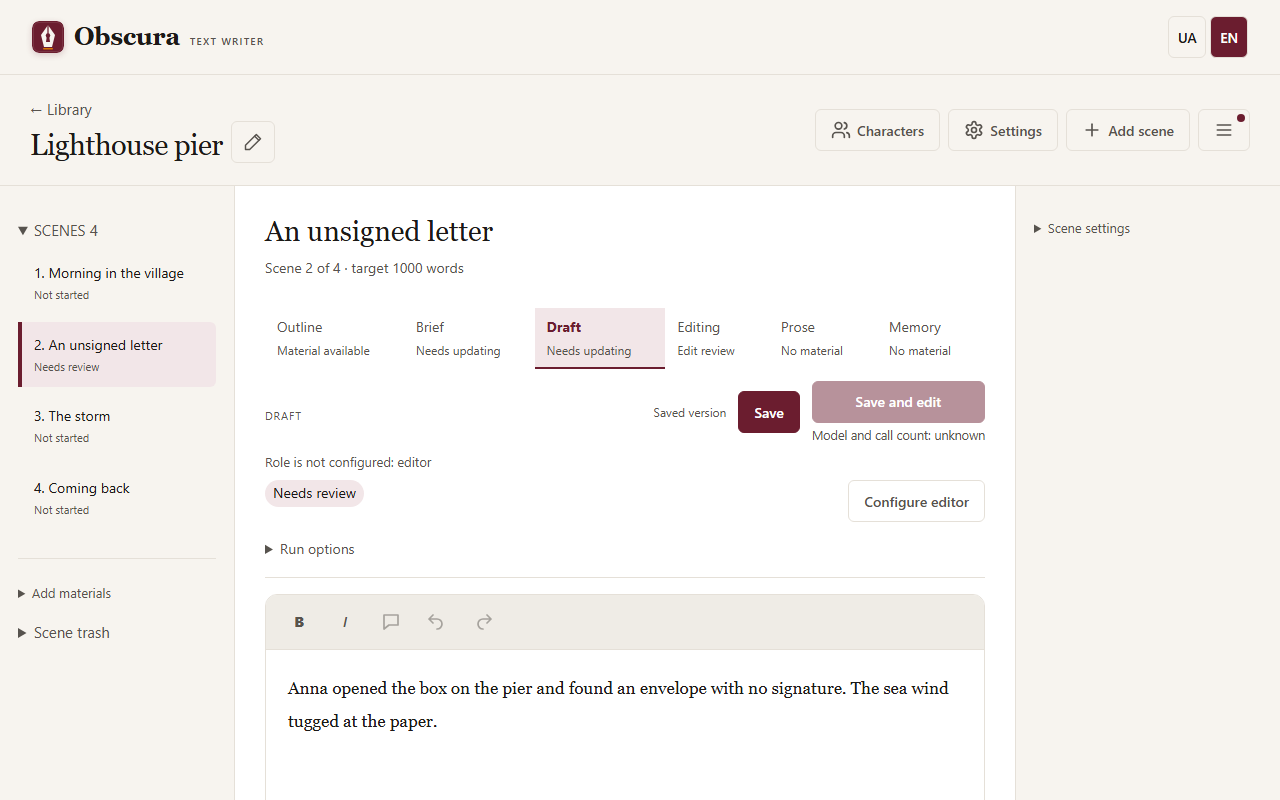
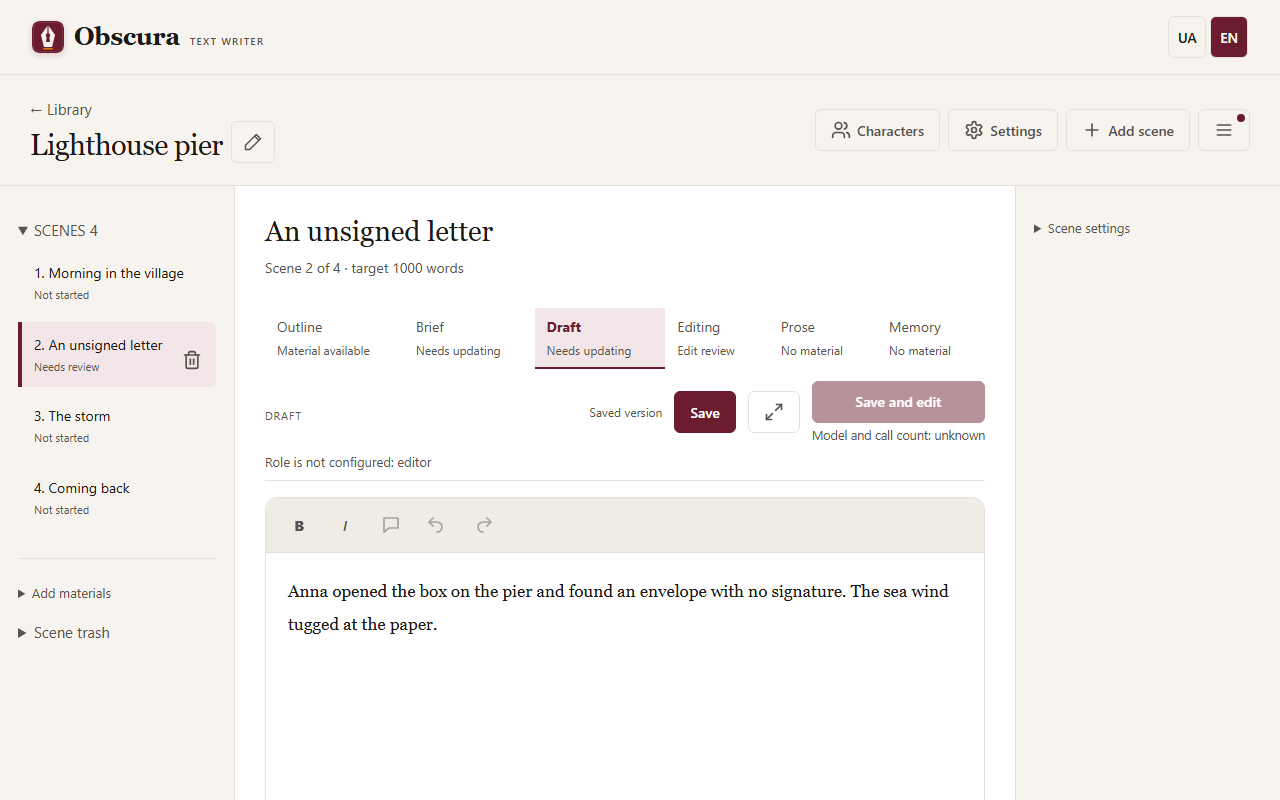
feat: compact pinned workspace area and full screen editor (R20-WORKSPACE-S03/S05)
Run status, run controls, run options and the waiting review card move under
the material; the pinned area keeps the tabs, the Save/primary row, the
blocked-action reason, the origin mark and the external change warning.
A 'Decision needed' link jumps to waiting runs. A full screen mode spreads the
editor over the app window and exits on Escape.

diff --git a/src/storygen/web/templates/story.html b/src/storygen/web/templates/story.html
@@ -3,8 +3,8 @@
 <div class="workbench"><aside class="scene-panel"><details id="scene-list-section" open><summary><span data-i18n="m_6a99495702ec">{{ t('m_6a99495702ec') }}</span> <span id="scene-count"></span></summary><select id="scene-select-mobile" aria-label="{{ t('m_f0f1417db6de') }}" data-i18n-attrs='{"aria-label": "m_f0f1417db6de"}'></select><nav id="scene-list"></nav></details><details class="importer" open><summary><span data-i18n="m_4aa3221c15d4">{{ t('m_4aa3221c15d4') }}</span></summary><div class="import-template-links"><span class="muted"><span data-i18n="m_85029e1c12d1">{{ t('m_85029e1c12d1') }}</span></span><a href="/static/templates/{{ 'story-plan-en.md' if story.language=='en' else 'story-plan.md' }}" download="obscura-plan.md"><span data-i18n="m_23766d24efd9">{{ t('m_23766d24efd9') }}</span></a><a href="/static/templates/{{ 'characters-en.md' if story.language=='en' else 'characters.md' }}" download="obscura-characters.md"><span data-i18n="m_a0828dcd0440">{{ t('m_a0828dcd0440') }}</span></a></div><form id="import-sources"><label><span data-i18n="m_3146141c9367">{{ t('m_3146141c9367') }}</span><input type="file" name="plan" accept=".md,.txt"></label><label><span data-i18n="m_fda6febf7bc7">{{ t('m_fda6febf7bc7') }}</span><input type="file" name="characters" accept=".md,.txt"></label><button><span data-i18n="m_68f804fb7941">{{ t('m_68f804fb7941') }}</span></button></form><p class="muted" data-i18n="imports.unnumbered">{{ t('imports.unnumbered') }}</p><section id="import-results" class="import-results" role="status" aria-live="polite" hidden></section><div id="import-journal" class="import-journal-host"></div></details></aside>
 <main class="editor-panel"><header class="scene-heading"><h2 id="scene-title"><span data-i18n="m_e9afe8d51b91">{{ t('m_e9afe8d51b91') }}</span></h2><p id="workspace-scene-meta"><span data-i18n="m_6be5cd9f46ec">{{ t('m_6be5cd9f46ec') }}</span></p></header>
 <div class="workspace-sticky"><div id="mode-tabs" class="tabs" role="tablist" aria-label="{{ t('m_566dc8de3f68') }}" data-i18n-attrs='{"aria-label": "m_566dc8de3f68"}'></div>
-<div class="editor-toolbar"><span class="material-label" id="current-kind"><span data-i18n="m_9ecb77f7d846">{{ t('m_9ecb77f7d846') }}</span></span><span id="save-state" class="muted" role="status"></span><button id="save-text" disabled><span data-i18n="m_bf610d493cb4">{{ t('m_bf610d493cb4') }}</span></button><button id="workspace-primary" disabled aria-describedby="workspace-hint"><span data-i18n="m_f0f1417db6de">{{ t('m_f0f1417db6de') }}</span></button></div><p id="workspace-hint" role="status"></p><p id="workspace-compact-status" class="workspace-compact-status" role="status"></p><section id="workspace-status-row" class="workspace-status-row" aria-label="{{ t('m_f9396174436c') }}" data-i18n-attrs='{"aria-label": "m_f9396174436c"}'><p id="workspace-scene-status" class="scene-status-badge"></p><p id="workspace-origin" class="muted workspace-origin" hidden></p><p id="external-change" class="external-change" role="status" hidden><span></span> <button type="button" class="secondary" hidden></button></p><div id="run-status"></div><div id="run-actions"></div><a id="workspace-error-settings" class="button secondary" hidden><span data-i18n="m_d8f26ba2b72c">{{ t('m_d8f26ba2b72c') }}</span></a><details id="run-options" class="run-options"><summary><span data-i18n="workspace.run_options">{{ t('workspace.run_options') }}</span></summary></details></section></div>
-<div id="review-attention" class="review-attention" hidden><p><a href="/stories/{{story.id}}/revision" data-i18n="workspace.review_attention">{{ t('workspace.review_attention') }}</a></p><section id="review-session" data-scope="attention" aria-live="polite" hidden></section></div><section id="workspace-material" role="tabpanel" aria-labelledby="current-kind"><section id="memory-view" aria-label="{{ t('m_e8666e7283dd') }}" data-i18n-attrs='{"aria-label": "m_e8666e7283dd"}' hidden></section><section id="brief-proposal" hidden></section><textarea id="editor" aria-labelledby="scene-title current-kind" spellcheck="true" placeholder="{{ t('m_af47cedafa12') }}" data-i18n-attrs='{"placeholder": "m_af47cedafa12"}'></textarea><section id="brief-link" hidden></section><section id="author-comments" hidden></section><section id="ghost-entry" hidden></section><section id="ghost-mode" hidden></section><section id="assisted-writing" hidden></section><section id="assisted-review" hidden></section><section id="scene-statistics" class="scene-statistics" aria-label="{{ t('m_f6dc49558ea8') }}" data-i18n-attrs='{"aria-label": "m_f6dc49558ea8"}'></section><details class="workspace-output"><summary><span data-i18n="m_b0c41900f0c9">{{ t('m_b0c41900f0c9') }}</span></summary><pre id="live-text" hidden></pre></details><div id="copyedit-panel" hidden></div></section>
+<div class="editor-toolbar"><span class="material-label" id="current-kind"><span data-i18n="m_9ecb77f7d846">{{ t('m_9ecb77f7d846') }}</span></span><span id="save-state" class="muted" role="status"></span><button id="save-text" disabled><span data-i18n="m_bf610d493cb4">{{ t('m_bf610d493cb4') }}</span></button><button id="workspace-focus" type="button" class="secondary icon-button" aria-pressed="false" aria-label="{{ t('workspace.focus_enter') }}" title="{{ t('workspace.focus_enter') }}"><span class="icon icon-maximize" aria-hidden="true"></span></button><button id="workspace-primary" disabled aria-describedby="workspace-hint"><span data-i18n="m_f0f1417db6de">{{ t('m_f0f1417db6de') }}</span></button><a id="run-jump" class="run-jump" href="#workspace-status-row" hidden><span data-i18n="workspace.decision_needed">{{ t('workspace.decision_needed') }}</span></a></div><div class="workspace-pinned-notes"><p id="workspace-hint" role="status" hidden></p><p id="workspace-origin" class="muted workspace-origin" hidden></p><p id="external-change" class="external-change" role="status" hidden><span></span> <button type="button" class="secondary" hidden></button></p></div><p id="workspace-compact-status" class="workspace-compact-status" role="status"></p></div>
+<section id="workspace-material" role="tabpanel" tabindex="-1" aria-labelledby="current-kind"><section id="memory-view" aria-label="{{ t('m_e8666e7283dd') }}" data-i18n-attrs='{"aria-label": "m_e8666e7283dd"}' hidden></section><section id="brief-proposal" hidden></section><textarea id="editor" aria-labelledby="scene-title current-kind" spellcheck="true" placeholder="{{ t('m_af47cedafa12') }}" data-i18n-attrs='{"placeholder": "m_af47cedafa12"}'></textarea><section id="brief-link" hidden></section><section id="author-comments" hidden></section><section id="ghost-entry" hidden></section><section id="ghost-mode" hidden></section><section id="assisted-writing" hidden></section><section id="assisted-review" hidden></section><section id="scene-statistics" class="scene-statistics" aria-label="{{ t('m_f6dc49558ea8') }}" data-i18n-attrs='{"aria-label": "m_f6dc49558ea8"}'></section><details class="workspace-output"><summary><span data-i18n="m_b0c41900f0c9">{{ t('m_b0c41900f0c9') }}</span></summary><pre id="live-text" hidden></pre></details><div id="copyedit-panel" hidden></div></section><p id="workspace-hint-info" class="workspace-hint-info" role="status"></p><section id="workspace-status-row" class="workspace-status-row" aria-label="{{ t('m_f9396174436c') }}" data-i18n-attrs='{"aria-label": "m_f9396174436c"}'><p id="workspace-scene-status" class="scene-status-badge"></p><div id="run-status"></div><div id="run-actions"></div><a id="workspace-error-settings" class="button secondary" hidden><span data-i18n="m_d8f26ba2b72c">{{ t('m_d8f26ba2b72c') }}</span></a><details id="run-options" class="run-options"><summary><span data-i18n="workspace.run_options">{{ t('workspace.run_options') }}</span></summary></details></section><div id="review-attention" class="review-attention" tabindex="-1" hidden><p><a href="/stories/{{story.id}}/revision" data-i18n="workspace.review_attention">{{ t('workspace.review_attention') }}</a></p><section id="review-session" data-scope="attention" aria-live="polite" hidden></section></div>
 <details id="workspace-history"><summary><span data-i18n="m_1653560c8db6">{{ t('m_1653560c8db6') }}</span></summary><div id="version-panel"></div></details>
 <details class="workspace-extra"><summary><span data-i18n="m_788d4b38107e">{{ t('m_788d4b38107e') }}</span></summary><button id="workspace-edit-prose" class="secondary" hidden><span data-i18n="m_9c2211f84d1e">{{ t('m_9c2211f84d1e') }}</span></button><button id="workspace-use-draft" class="secondary"><span data-i18n="m_bcc45ed5922a">{{ t('m_bcc45ed5922a') }}</span></button><div id="workspace-scene-actions"></div><div id="generation-controls" hidden></div></details></main>
 <aside class="context-panel"><details class="tool-section" data-section="scene"><summary><span data-i18n="workspace.scene_section">{{ t('workspace.scene_section') }}</span></summary><div id="context-content"><p class="muted"><span data-i18n="m_8fe8cb15943c">{{ t('m_8fe8cb15943c') }}</span></p></div></details><details class="tool-section" data-section="evaluation" id="evaluation-section" hidden><summary><span data-i18n="workspace.evaluation_section">{{ t('workspace.evaluation_section') }}</span></summary><div id="evaluation-panel"></div></details></aside></div></div>

diff --git a/src/storygen/web/static/workspace-route.js b/src/storygen/web/static/workspace-route.js
@@ -7,17 +7,21 @@ import {invokeWorkspaceCommand} from './workspace-commands.js';
 import {performPrimary,primaryAction} from './workspace-state.js';
 import {compactBudgetText} from './workspace-links.js';
 import {editorLoopOperation} from './run-readiness.js';
+import {installRunJump} from './run-jump.js';
+import {installWorkspaceFocus} from './workspace-focus.js';
 
-const primary=document.querySelector('#workspace-primary'),hint=document.querySelector('#workspace-hint');
+const primary=document.querySelector('#workspace-primary'),hint=document.querySelector('#workspace-hint'),hintInfo=document.querySelector('#workspace-hint-info');
 const primaryWrap=document.createElement('span');primaryWrap.className='workspace-primary-wrap';
 primary.before(primaryWrap);primaryWrap.append(primary);
 const telemetry=document.createElement('small');telemetry.id='workspace-telemetry';
 telemetry.tabIndex=0;
 const detailsCard=document.createElement('div');detailsCard.id='workspace-telemetry-details';detailsCard.className='workspace-telemetry-details';detailsCard.setAttribute('role','tooltip');
-primaryWrap.append(telemetry,detailsCard);primary.setAttribute('aria-describedby','workspace-hint workspace-telemetry workspace-telemetry-details');
+primaryWrap.append(telemetry,detailsCard);primary.setAttribute('aria-describedby','workspace-hint workspace-hint-info workspace-telemetry workspace-telemetry-details');
 const activeKey=()=>`storygen.primary.active.${state.storyId}`;
 function activeId(){try{return sessionStorage.getItem(activeKey())}catch{return null}}
 function setActiveId(id){try{if(id)sessionStorage.setItem(activeKey(),id);else sessionStorage.removeItem(activeKey())}catch{}}
+const updateRunJump=installRunJump(document,()=>state.workspaceRun?.state);
+installWorkspaceFocus(document,textEditor);
 let busy=false,pending=null,primaryRun=activeId(),primaryController=null,cancelRequested=false;
 const activeStates=new Set(['queued','running','pause_requested','cancellation_requested']);
 const isActive=()=>activeStates.has(state.workspaceRun?.state)||(state.workspaceRuns||[]).some(run=>activeStates.has(run.state));
@@ -52,7 +56,9 @@ function render(){
   uiText(primary,"textContent",()=>(canStop?t('workspace.stop'):(primaryAction(state).label||t("m_b31265827ca7"))));primary.disabled=canStop?cancelRequested:!!reason;
   const scenes=state.view?.scenes||[],last=scenes.at(-1)?.id===state.scene?.id;
   if(state.mode==='memory'&&!canStop)uiText(primary,"textContent",()=>(last?t("m_0471f5c4220f"):t("m_58a98c56a879")));
-  uiText(hint,"textContent",()=>(diagnostic(reason)||(action.target&&state.scene?.heads[action.target]?t("m_44df09bb6ff6"):state.mode==='review'?t("m_34c3cc998162"):state.mode==='memory'?t("m_e310e34e8865"):t("m_93abd76dba4c"))));
+  // The blocked-action reason stays pinned above the editor; the general consequence note scrolls under the material.
+  hint.hidden=!diagnostic(reason);uiText(hint,"textContent",()=>(diagnostic(reason)));
+  uiText(hintInfo,"textContent",()=>(action.target&&state.scene?.heads[action.target]?t("m_44df09bb6ff6"):state.mode==='review'?t("m_34c3cc998162"):state.mode==='memory'?t("m_e310e34e8865"):t("m_93abd76dba4c")));
   uiText(primary,"title",()=>(diagnostic(reason)));
   const repeat=document.querySelector('#workspace-edit-prose');repeat.hidden=state.mode!=='prose';repeat.disabled=busy||isActive()||state.saving;
   // #105: tab statuses follow the refreshed view even while the buffer keeps the author's text and revision.
@@ -66,6 +72,7 @@ function render(){
     uiAttr(b,'aria-label',()=>(`${({plan:t('m_3146141c9367'),brief:t('m_5a2ec5eaf0a1'),draft:t('m_e9d875d4120b'),review:t('m_c2320838b6df'),prose:t('m_9c685577453c'),memory:t('m_aa1cfb48cc30')})[mode]||b.dataset.label}: ${diagnostic(status)}`));
     let small=b.querySelector('small');if(!small){small=document.createElement('small');b.append(small)}uiText(small,"textContent",()=>(diagnostic(status)));
   }
+  updateRunJump();
 }
 async function nextScene(){
   const scenes=state.view.scenes,index=scenes.findIndex(s=>s.id===state.scene.id);

diff --git a/src/storygen/web/static/app.css b/src/storygen/web/static/app.css
@@ -400,6 +400,31 @@ pre { white-space: pre-wrap; overflow-wrap: anywhere; font: 14px/1.7 var(--font-
 .scene-status-badge { padding: 0.125rem 0.5rem; border-radius: 999px; background: var(--accent-soft); color: var(--text-primary); }
 .external-change { margin: 0; display: flex; flex-wrap: wrap; align-items: center; gap: 0.5rem; color: var(--warning); font-weight: 600; }
 .run-options { flex-basis: 100%; }
+/* R20-WORKSPACE-S03: the status row, the consequence note and a waiting review card scroll under the material. */
+.workspace-hint-info { margin: 0.75rem 0 0; color: var(--text-secondary); font-size: 0.8125rem; }
+#workspace-material ~ .workspace-status-row { margin-top: 0.75rem; padding-top: 0.75rem; border-top: 1px solid var(--border-color); }
+#workspace-material ~ .review-attention { margin-top: 0.75rem; }
+.workspace-pinned-notes { display: flex; flex-wrap: wrap; align-items: center; gap: 0.25rem 0.75rem; }
+.workspace-pinned-notes:not(:has(> :not([hidden]))) { display: none; }
+.workspace-pinned-notes > p { margin: 0.5rem 0 0; }
+.run-jump { color: var(--warning); font-weight: 600; font-size: 0.875rem; white-space: nowrap; }
+.run-jump[hidden] { display: none; }
+.icon-maximize { --icon: url(/static/icons/maximize.svg); }
+.icon-minimize { --icon: url(/static/icons/minimize.svg); }
+/* R20-WORKSPACE-S05: full screen inside the app window; only the editor and a thin save row remain. */
+body:has(#workspace.focus-mode) .topbar, #workspace.focus-mode .storybar, #workspace.focus-mode .scene-panel, #workspace.focus-mode .context-panel,
+#workspace.focus-mode .scene-heading, #workspace.focus-mode #mode-tabs, #workspace.focus-mode .workspace-primary-wrap, #workspace.focus-mode #run-jump,
+#workspace.focus-mode .workspace-hint-info, #workspace.focus-mode .workspace-status-row, #workspace.focus-mode .review-attention,
+#workspace.focus-mode #workspace-history, #workspace.focus-mode .workspace-extra, #workspace.focus-mode #scene-statistics, #workspace.focus-mode .workspace-output,
+#workspace.focus-mode .workspace-compact-status { display: none !important; }
+#workspace.focus-mode .editor-panel { position: fixed; inset: 0; z-index: 20; display: flex; flex-direction: column; padding: 0.5rem 1rem 1rem; background: var(--bg-surface); }
+#workspace.focus-mode .workspace-sticky { position: static; margin-bottom: 0.5rem; }
+#workspace.focus-mode #workspace-material { flex: 1; min-height: 0; display: flex; flex-direction: column; overflow-y: auto; }
+/* The editor fills the window; panels that follow it inside the material (comments, assisted writing) scroll below. */
+#workspace.focus-mode #workspace-material > textarea#editor:not([hidden]), #workspace.focus-mode #workspace-material > .rich-text-surface:not([hidden]) { flex: none; height: 100%; min-height: 0; display: flex; flex-direction: column; }
+#workspace.focus-mode #workspace-material > textarea#editor { resize: none; }
+#workspace.focus-mode .rich-text-host { flex: 1; min-height: 0; display: flex; flex-direction: column; }
+#workspace.focus-mode .rich-text-host .ProseMirror { flex: 1; min-height: 0; height: auto; }
 .run-options label { max-width: 22rem; }
 #run-actions { display: flex; flex-wrap: wrap; gap: 0.5rem; margin-block: 0.75rem; }
 #run-actions .run-action { flex: 1 1 8rem; }

diff --git a/src/storygen/web/static/workspace-focus.js b/src/storygen/web/static/workspace-focus.js
@@ -1,0 +1,34 @@
+/** R20-WORKSPACE-S05: spread the editor over the app window (not the browser Fullscreen API). */
+import {t,uiAttr} from './i18n.js';
+
+function openPopover(doc){try{return !!doc.querySelector(':popover-open')}catch{return false}}
+const shown=node=>!!node&&!node.hidden&&node.getClientRects?.().length>0;
+
+export function installWorkspaceFocus(doc,textEditor){
+  const root=doc.querySelector('#workspace'),button=doc.querySelector('#workspace-focus');
+  if(!root||!button)return null;
+  const icon=button.querySelector('.icon'),material=doc.querySelector('#workspace-material');
+  const label=()=>t(root.classList.contains('focus-mode')?'workspace.focus_exit':'workspace.focus_enter');
+  uiAttr(button,'aria-label',label);uiAttr(button,'title',label);
+  function focusMaterial(){
+    // Memory and review tabs hide the text editor: focus the material panel they scroll in instead.
+    if(shown(material?.querySelector('.rich-text-surface'))||shown(material?.querySelector('textarea#editor')))textEditor.focus();
+    else material?.focus({preventScroll:true});
+  }
+  function set(on){
+    root.classList.toggle('focus-mode',on);
+    button.setAttribute('aria-pressed',String(on));
+    icon?.classList.toggle('icon-maximize',!on);icon?.classList.toggle('icon-minimize',on);
+    uiAttr(button,'aria-label',label);uiAttr(button,'title',label);
+    focusMaterial();
+  }
+  button.addEventListener('click',()=>set(!root.classList.contains('focus-mode')));
+  // Capture phase: ProseMirror's base keymap binds Escape to selectParentNode and always prevents it.
+  // Dialogs, an open comment popover and Ghost mode keep their own Escape.
+  doc.addEventListener('keydown',event=>{
+    if(event.key!=='Escape'||!root.classList.contains('focus-mode'))return;
+    if(doc.querySelector('dialog[open]')||openPopover(doc)||event.target?.closest?.('#ghost-mode'))return;
+    event.preventDefault();event.stopPropagation();set(false);
+  },true);
+  return {set,active:()=>root.classList.contains('focus-mode')};
+}

diff --git a/src/storygen/web/static/run-jump.js b/src/storygen/web/static/run-jump.js
@@ -1,0 +1,28 @@
+/** R20-WORKSPACE-S03: a pinned link to the run controls that now sit under the material. */
+const WAITING=new Set(['needs_review','alternative','paused','failed','interrupted']);
+
+/** Shown for run states that wait for the author, or while a review card waits under the editor. */
+export function runJumpVisible(runState,reviewWaiting){return WAITING.has(runState)||!!reviewWaiting;}
+
+/** Where the link leads: the first usable run action, otherwise the waiting review card, otherwise the run summary. */
+export function jumpTarget(doc){
+  const row=doc.querySelector('#workspace-status-row'),review=doc.querySelector('#review-attention');
+  const button=[...doc.querySelectorAll('#run-actions button')].find(b=>!b.disabled&&!b.hidden&&!b.closest?.('[hidden]'));
+  if(button)return {scroll:row,focus:button};
+  if(review&&!review.hidden)return {scroll:review,focus:review};
+  return {scroll:row,focus:row?.querySelector?.('.run-summary')||null};
+}
+
+export function installRunJump(doc,runState,Observer=globalThis.MutationObserver){
+  const link=doc.querySelector('#run-jump'),review=doc.querySelector('#review-attention');
+  const update=()=>{if(link)link.hidden=!runJumpVisible(runState(),review&&!review.hidden);};
+  // review-session.js reveals the card asynchronously without a workspace render.
+  if(review&&Observer)new Observer(update).observe(review,{attributes:true,attributeFilter:['hidden']});
+  link?.addEventListener('click',event=>{
+    event.preventDefault();
+    const target=jumpTarget(doc);
+    target.scroll?.scrollIntoView({block:'start',behavior:'smooth'});
+    target.focus?.focus({preventScroll:true});
+  });
+  return update;
+}

diff --git a/tests/web/test_workspace_layout_ui.py b/tests/web/test_workspace_layout_ui.py
@@ -34,11 +34,29 @@ def test_run_controls_and_limit_live_in_the_status_row(tmp_path):
     tree,html=page(tmp_path)
     for id in ['run-status','run-actions','workspace-error-settings','run-options','workspace-scene-status']:
         assert id in tree.ancestors,id
-        assert {'.workspace-sticky','#workspace-status-row'}<=tree.ancestors[id],id
-    # A waiting review card can be long: it sits right under the sticky block, never inside it (final review #1).
+        assert '#workspace-status-row' in tree.ancestors[id],id
     assert '.workspace-sticky' not in tree.ancestors['review-attention']
     assert '#workspace' in tree.ancestors['review-attention']
     assert 'workspace-status"' not in html.split('class="context-panel"')[1]
+
+
+@pytest.mark.req('R20-WORKSPACE')
+def test_pinned_area_keeps_only_tabs_toolbar_and_notes(tmp_path):
+    tree,html=page(tmp_path)
+    # Status row, run controls and the waiting review card scroll with the page under the material.
+    for id in ['workspace-status-row','review-attention','workspace-hint-info']:
+        assert '.workspace-sticky' not in tree.ancestors[id],id
+    material=html.index('id="workspace-material"')
+    assert material<html.index('id="workspace-hint-info"')<html.index('id="workspace-status-row"')<html.index('id="review-attention"')
+    assert tree.attrs['review-attention'].get('tabindex')=='-1'
+    # What must stay in view while typing: the blocked-action reason, the external origin and change notices.
+    for id in ['workspace-hint','workspace-origin','external-change']:
+        assert {'.workspace-sticky','.workspace-pinned-notes'}<=tree.ancestors[id],id
+    for id in ['run-jump','workspace-focus']:
+        assert {'.workspace-sticky','.editor-toolbar'}<=tree.ancestors[id],id
+    assert 'hidden' in tree.attrs['run-jump'] and tree.attrs['run-jump'].get('href')=='#workspace-status-row'
+    focus=tree.attrs['workspace-focus']
+    assert focus.get('aria-pressed')=='false' and focus.get('aria-label') and focus.get('title')
 
 
 @pytest.mark.req('WORKSPACE-TOOLS')

diff --git a/tests/web/test_run_jump.py b/tests/web/test_run_jump.py
@@ -1,0 +1,14 @@
+import shutil,subprocess
+from pathlib import Path
+import pytest
+
+
+@pytest.mark.req('R20-WORKSPACE')
+def test_run_jump_link_follows_waiting_runs_and_review_card():
+    node=shutil.which('node')
+    if not node:
+        bundled=Path.home()/'.cache/codex-runtimes/codex-primary-runtime/dependencies/node/bin/node.exe'
+        if not bundled.is_file():pytest.skip('Node required for frontend helper test')
+        node=str(bundled)
+    result=subprocess.run([node,str(Path(__file__).resolve().parents[2]/'tests/web/js/run_jump.mjs')],capture_output=True,text=True,encoding='utf-8',timeout=20)
+    assert result.returncode==0,result.stdout+result.stderr

diff --git a/tests/web/test_external_origin_ui.py b/tests/web/test_external_origin_ui.py
@@ -23,7 +23,7 @@ def test_external_origin_label():
 @pytest.mark.req('MCP-BRIDGE')
 def test_history_and_status_row_show_the_label():
     template = (ROOT / 'src/storygen/web/templates/story.html').read_text(encoding='utf-8')
-    row = re.search(r'<section id="workspace-status-row".*?</section>', template, re.S).group(0)
+    row = re.search(r'<div class="workspace-pinned-notes".*?</div>', template, re.S).group(0)
     assert re.search(r'<p id="workspace-origin"[^>]*\bhidden\b', row)
     editor = (STATIC / 'editor.js').read_text(encoding='utf-8')
     versions = (STATIC / 'versions.js').read_text(encoding='utf-8')

diff --git a/docs/site/uk/workspace.md b/docs/site/uk/workspace.md
@@ -32,13 +32,15 @@
 
 ## Рядок стану
 
-Над текстом сцени показано стан сцени, хід запуску й кнопки паузи, скасування, продовження та повтору. Хід запуску займає один рядок: стан, моделі, витрати в доларах (усього / останній виклик) і знак ⚠, якщо є попередження. Подробиці usage провайдера — у підказці до витрат. Клікніть цей рядок, щоб побачити план, попередження й етапи, і ще раз — щоб сховати. Помилку проваленого запуску видно одразу. **Параметри запуску** задають ліміт наступного запуску. **Пройти решту** виконує решту сцен по черзі. Пауза діє між етапами; закриття вкладки роботу не скасовує, а скасування не гарантує негайної зупинки відповіді провайдера. Спершу перевірте одну сцену, як описано в розділі [Перший твір](first-story.md). Якщо послідовна перевірка впливу чекає вашого рішення, її картка з’являється під рядком стану поруч із текстом.
+Угорі закріплено лише вкладки етапів і рядок зі **Зберегти** та основною дією. Там само з’являються причина, чому основна дія недоступна, позначка тексту від зовнішнього клієнта й попередження про зміну матеріалу ззовні. Під текстом сцени показано пояснення до основної дії, стан сцени, хід запуску й кнопки паузи, скасування, продовження та повтору. Коли запуск чекає вашого рішення (перевірка, вибір варіанта, пауза, збій), у закріпленому рядку з’являється посилання **Потрібне рішення ↓**: воно прокручує до кнопок. Хід запуску займає один рядок: стан, моделі, витрати в доларах (усього / останній виклик) і знак ⚠, якщо є попередження. Подробиці usage провайдера — у підказці до витрат. Клікніть цей рядок, щоб побачити план, попередження й етапи, і ще раз — щоб сховати. Помилку проваленого запуску видно одразу. **Параметри запуску** задають ліміт наступного запуску. **Пройти решту** виконує решту сцен по черзі. Пауза діє між етапами; закриття вкладки роботу не скасовує, а скасування не гарантує негайної зупинки відповіді провайдера. Спершу перевірте одну сцену, як описано в розділі [Перший твір](first-story.md). Якщо послідовна перевірка впливу чекає вашого рішення, її картка з’являється під рядком стану, і посилання **Потрібне рішення ↓** веде до неї.
 
 ## Редактор
 
 Чернетка й проза мають панель форматування: **B** (`Ctrl+B`), *I* (`Ctrl+I`), скасування (`Ctrl+Z`) і повтор (`Ctrl+Y`). **Зберегти** створює нову версію й не стирає попередніх. Вставлення переносить лише текст. Браузер попереджає, перш ніж ви підете з незбереженими правками.
 
 Редактор пам’ятає останню сцену й вкладку окремо для кожного твору в цьому браузері.
+
+Кнопка **На весь екран** у рядку зі **Зберегти** розгортає текст на все вікно застосунку: шапка, список сцен, права панель, вкладки й рядок стану ховаються, лишаються **Зберегти** й кнопка **Згорнути**. Вийти можна цією кнопкою або клавішею `Esc`. Режим діє на будь-якій вкладці; щоб запустити етап чи перейти до іншої сцени, вийдіть із нього.
 
 ## Розділи сцени
 

diff --git a/docs/site/en/workspace.md b/docs/site/en/workspace.md
@@ -32,13 +32,15 @@ Before you press it, the primary button shows the model and the maximum number o
 
 ## Status row
 
-Above the scene text you see the scene status, the run progress and the pause, cancel, continue and repeat buttons. The run progress takes one line: the state, the models, the cost in dollars (total / last call) and a ⚠ mark when there is a warning. The provider's usage details are in the tooltip on the cost. Click that line to see the plan, warnings and stages, and click again to hide them. A failed run shows its error right away. **Run options** sets the limit for the next run. **Run remaining scenes** runs the remaining scenes one after another. Pause takes effect between stages; closing the tab does not cancel the work, and cancelling does not guarantee that the provider stops answering at once. Check one scene first, as described in [Your first story](first-story.md). When a sequential impact review waits for your decision, its card appears below the status row, next to the text.
+Only the stage tabs and the row with **Save** and the primary action stay pinned at the top. The same place shows why the primary action is unavailable, the mark for text from an external client and the warning that the material changed elsewhere. Below the scene text you see the note about the primary action, the scene status, the run progress and the pause, cancel, continue and repeat buttons. When a run waits for your decision (review, choosing a variant, pause, failure), the pinned row shows a **Decision needed ↓** link that scrolls to the buttons. The run progress takes one line: the state, the models, the cost in dollars (total / last call) and a ⚠ mark when there is a warning. The provider's usage details are in the tooltip on the cost. Click that line to see the plan, warnings and stages, and click again to hide them. A failed run shows its error right away. **Run options** sets the limit for the next run. **Run remaining scenes** runs the remaining scenes one after another. Pause takes effect between stages; closing the tab does not cancel the work, and cancelling does not guarantee that the provider stops answering at once. Check one scene first, as described in [Your first story](first-story.md). When a sequential impact review waits for your decision, its card appears below the status row, and the **Decision needed ↓** link leads to it.
 
 ## Editor
 
 Draft and Prose have a formatting toolbar: **B** (`Ctrl+B`), *I* (`Ctrl+I`), undo (`Ctrl+Z`) and redo (`Ctrl+Y`). **Save** creates a new version and does not erase earlier ones. Pasting brings in plain text only. The browser warns you before you leave with unsaved edits.
 
 The editor remembers the last scene and tab separately for each story in this browser.
+
+The **Full screen** button in the row with **Save** spreads the text over the whole app window: the header, scene list, right panel, tabs and status row are hidden, and **Save** and **Exit full screen** remain. Leave with that button or the `Esc` key. The mode works on any tab; to run a stage or open another scene, leave it first.
 
 ## Scene sections
 

diff --git a/docs/verification/manual.md b/docs/verification/manual.md
@@ -195,7 +195,7 @@ R-22 прокрутка: Playwright `long draft scrolls internally while formatt
 <a id="workspace-layout"></a>
 ## Робочий простір: рядок стану, меню, розділи сцени й «Редагування книги»
 
-З `PYTHONPATH=<робоча копія>/src` у `frontend` запустити `npx playwright test workspace-layout impact sequential-review review-evidence --project=desktop --project=mobile` на synthetic server без provider calls. `workspace-layout.spec.mjs`: `status row holds run controls and the next-run limit`; `story menu opens from the keyboard and returns focus on Escape`; `book revision page opens from the menu with a pending count`; `scene sections reopen after reload and leave unsaved text alone` (зокрема оцінювання приховане без оцінювача); `sections work when storage throws`. `sequential-review.spec.mjs` і `impact.spec.mjs` перевіряють запуск на `/stories/{id}/revision` і картку сесії поруч з редактором. Переглянути знімки `docs/images/workspace-*-{desktop,mobile}.png` на нейтральність і відсутність горизонтального прокручування на 375 px. Наявність процедури не є фактичним PASS; результат запуску записується в журналі виконання.
+З `PYTHONPATH=<робоча копія>/src` у `frontend` запустити `npx playwright test workspace-layout impact sequential-review review-evidence --project=desktop --project=mobile` на synthetic server без provider calls. `workspace-layout.spec.mjs`: `status row holds run controls and the next-run limit`; `waiting run shows a decision link and the pinned area stays small` (R20-WORKSPACE-S03); `full screen mode spreads the editor and exits on Escape` (R20-WORKSPACE-S05); `story menu opens from the keyboard and returns focus on Escape`; `book revision page opens from the menu with a pending count`; `scene sections reopen after reload and leave unsaved text alone` (зокрема оцінювання приховане без оцінювача); `sections work when storage throws`. `sequential-review.spec.mjs` і `impact.spec.mjs` перевіряють запуск на `/stories/{id}/revision` і картку сесії поруч з редактором. Переглянути знімки `docs/images/workspace-*-{desktop,mobile}.png` на нейтральність і відсутність горизонтального прокручування на 375 px. Наявність процедури не є фактичним PASS; результат запуску записується в журналі виконання.
 
 
 <a id="run-status-collapse"></a>
